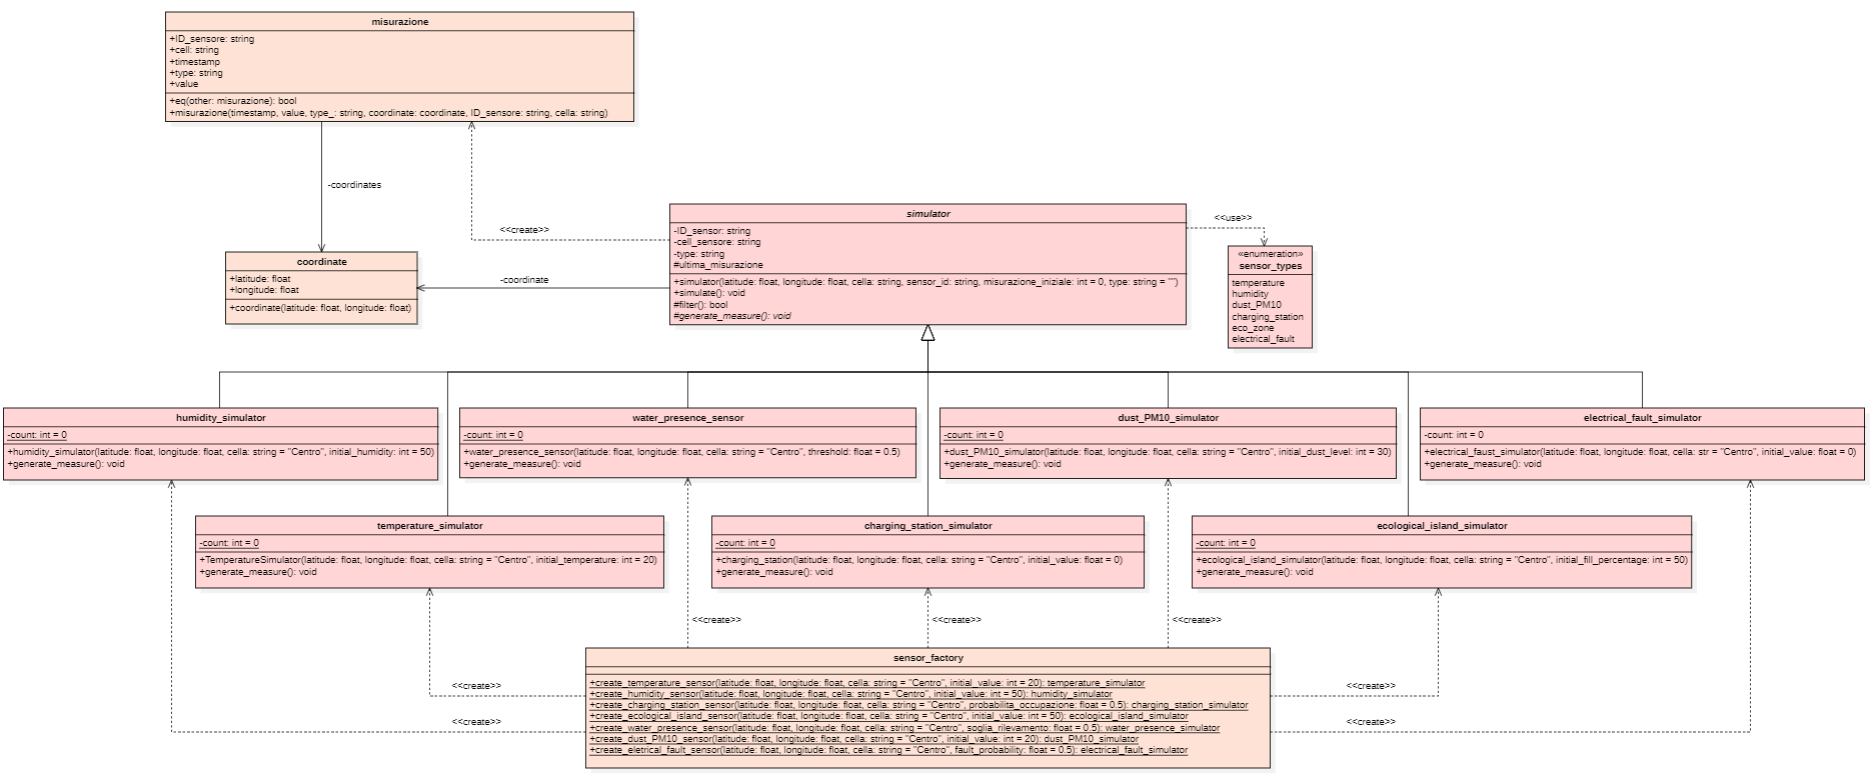
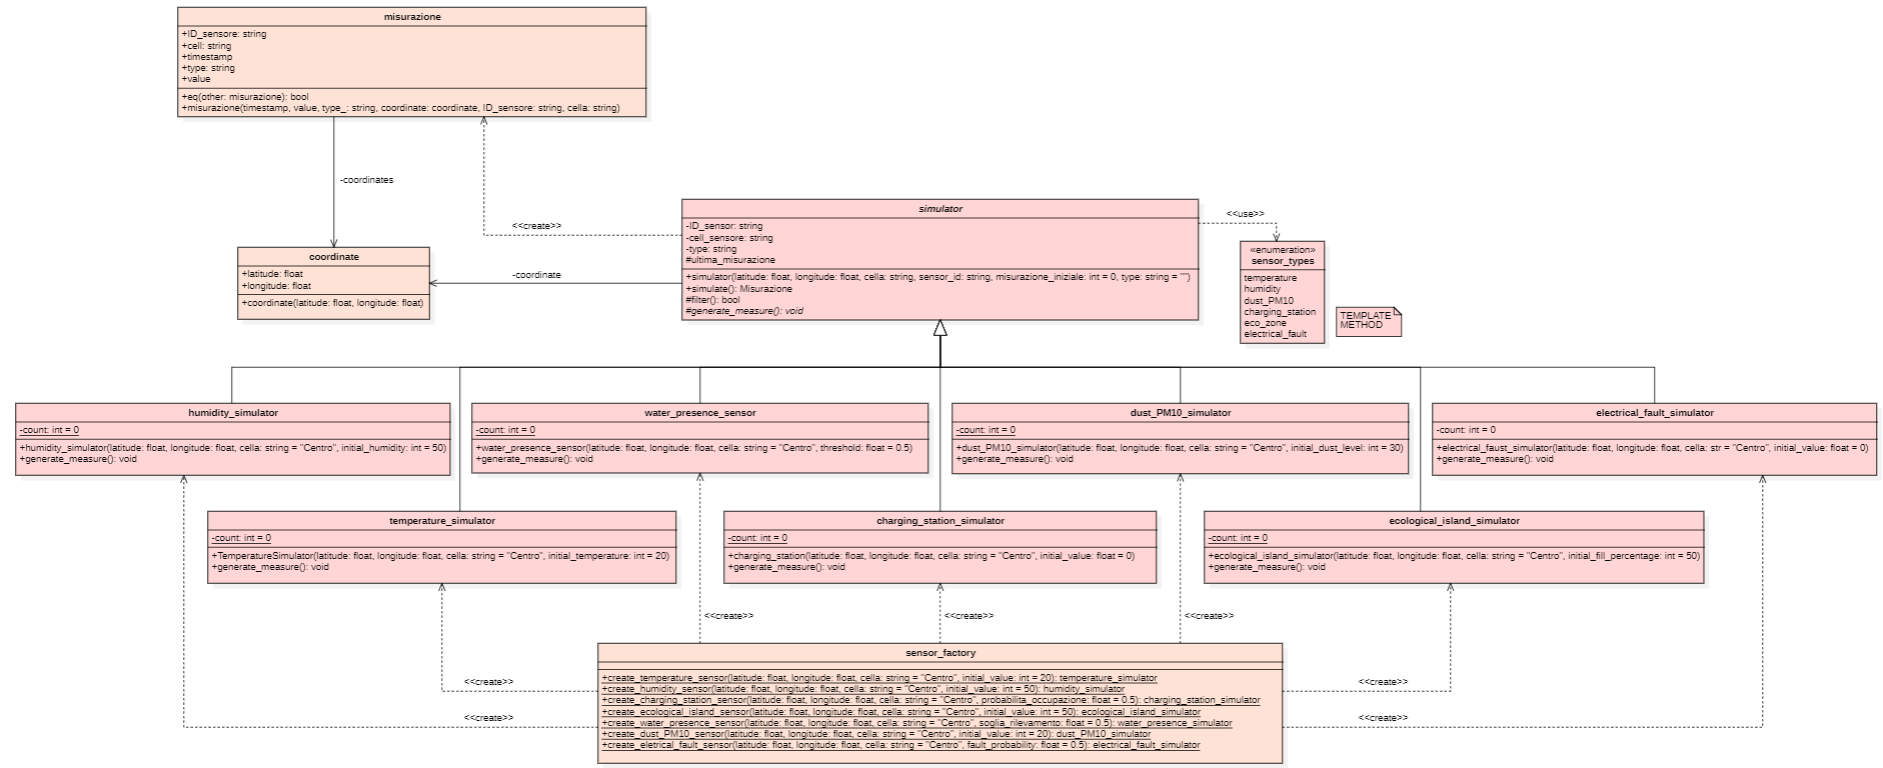
correction

diff --git a/Documenti_Interni/Sottosezioni/Specifica_tecnica/Grafana_config.tex b/Documenti_Interni/Sottosezioni/Specifica_tecnica/Grafana_config.tex
@@ -30,7 +30,7 @@ Per soddisfare tutti i requisiti definiti in \textit{Analisi dei requisiti v2.0.
 
 
 \paragraph*{Dashboard Principale - Progettazione in dettaglio}
-La dashboard principale presenta una suddivisione in "righe" comprimibili. Di seguito viene esposto per ogni riga cosa deve essere visualizzato nell'ordine dato dall'enumerazione, \textbf{ l'intervallo di tempo scelto dall'utente tramite interfaccia di default Grafana verrà chiamato \textit{UserInterval}}
+La dashboard principale è suddivisa in righe comprimibili. Di seguito, vengono elencate le informazioni da visualizzare per ciascuna riga, nell’ordine dall'enumerazione, \textbf{ l'intervallo di tempo scelto dall'utente tramite interfaccia di default Grafana verrà chiamato \textit{UserInterval}.}
 \begin{enumerate}
     \item Titolo riga: \textbf{City manager}
     \begin{enumerate}
@@ -96,22 +96,20 @@ La dashboard principale presenta una suddivisione in "righe" comprimibili. Di se
 
 
 \paragraph*{Dashboard dedicata - Progettazione in dettaglio}
-La dashboard dedicata è suddivisa in due sezioni: la prima posta nella parte superiore della dashboard è dedicata alle variabili di input per la selezione dei sensori e delle celle da analizzare, mentre la seconda posta nella parte inferiore della dashboard è dedicata alla visualizzazione delle misurazioni dei sensori selezionati.\\
+La dashboard dedicata è suddivisa in due sezioni: la prima posta nella parte superiore della dashboard è dedicata ai pannelli per le variabili di input, mentre la seconda posta nella parte inferiore della dashboard è dedicata alla visualizzazione delle misurazioni dei sensori secondo le impostazioni selezionate.\\
 Di seguito vengono esposti i dettagli relativi alla progettazione della selezione delle variabili di input:
 \begin{enumerate}
-    \item Nome pannello variabili: \textbf{Selezione cella}: Permette di selezionare le celle della città da analizzare;
-    \item Nome pannello variabili: \textbf{Tipologia misurazioni}: Permette di selezionare la tipologia di sensori da analizzare;
-    \item Nome pannello variabili: \textbf{Seleziona i sensori fronte}: Permette di selezionare i sensori da analizzare della tipologia e della cella selezionata;
-    \item Nome pannello variabili: \textbf{Aggregazione temporale}: Permette di selezionare l'intervallo temporale di aggregazione delle misurazioni;
-    \item Nome pannello variabili: \textbf{Misurazine minima}: Permette di selezionare il valore minimo delle misurazioni da visualizzare;
-    \item Nome pannello variabili: \textbf{Misurazione massima}: Permette di selezionare il valore massimo delle misurazioni da visualizzare.
+    \item Nome pannello: \textbf{Selezione cella}: Permette di selezionare le celle della città da analizzare;
+    \item Nome pannello: \textbf{Tipologia misurazioni}: Permette di selezionare la tipologia di sensori da analizzare;
+    \item Nome pannello variabili: \textbf{Seleziona i sensori}: Permette di selezionare i sensori da analizzare della tipologia e della cella selezionata;
+    \item Nome pannello: \textbf{Aggregazione temporale}: Permette di selezionare l'intervallo temporale di aggregazione delle misurazioni:{Automatico, Secondo, Minuto, Ora, Giorno, Mese, Nessuno}. Maggiori dettagli in \ref{sec:var_dedicate};
+    \item Nome pannello: \textbf{Misurazine minima}: Permette di selezionare il valore minimo delle misurazioni da visualizzare;
+    \item Nome pannello: \textbf{Misurazione massima}: Permette di selezionare il valore massimo delle misurazioni da visualizzare.
 \end{enumerate}
-Di seguito vengono esposti i dettagli relativi alla progettazione della visualizzazione delle misurazioni dei sensori selezionati:
+Di seguito vengono esposti i dettagli relativi alla progettazione della visualizzazione delle misurazioni secondo le variabili selezionate:
 \begin{enumerate}
-    \item Nome pannello: \textbf{Grafico a linee}: 
-    Visualizzazione delle misurazioni tramite un grafico a linee time-series. Le misurazioni sono mostrate in base ai parametri specificati dall'utente per la selezione delle celle, dei sensori, della tipologia delle misurazioni e dell'aggregazione temporale.
-    \item Nome pannello: \textbf{Tabella misurazioni}: 
-    Visualizzazione delle misurazioni in forma tabellare. Come nel pannello precedente, le misurazioni sono mostrate in base ai parametri specificati dall'utente per la selezione delle celle, dei sensori, della tipologia delle misurazioni e dell'aggregazione temporale.
+    \item Nome pannello: \textbf{Grafico a linee}: Visualizzazione delle misurazioni avviene attraverso un grafico a linee time-series. Le misurazioni sono mostrate in base ai parametri specificati dall’utente. In particolare, le misurazioni esposte si basano sulla selezione delle celle, dei sensori, della tipologia delle misurazioni, dell’aggregazione temporale e della misurazione massima e minima definita dall’utente;
+    \item Nome pannello: \textbf{Tabella misurazioni}: Visualizzazione delle misurazioni in forma tabellare. Come nel pannello precedente, le misurazioni sono mostrate in base ai parametri specificati dall'utente.
 \end{enumerate}
 
 \subsubsection{ClickHouse data source plugin} \label{sec:click_plugin}
@@ -156,7 +154,7 @@ Un esempio di query per la visualizzazione delle misurazioni time-series di temp
 \end{lstlisting}
 
 La query esposta mostra anche l'utilizzo delle macro esposte in: \ref{sec:macros}
-\paragraph*{Utilizzo delle variabili nella dashboard dedicata:}
+\paragraph*{Utilizzo delle variabili nella dashboard dedicata:} \label{sec:var_dedicate}
 Nella dashboard dedicata alla visualizzazione spefica delle misurazioni di una sola tipologia di sensori, le variabili sono:
 \begin{itemize}
     \item \textbf{variabile (\$cella)}: per mostrare solo le misurazioni provenienti da determinate celle della città, 

diff --git a/Documenti_Interni/Sottosezioni/Specifica_tecnica/Architettura_simulatori.tex b/Documenti_Interni/Sottosezioni/Specifica_tecnica/Architettura_simulatori.tex
@@ -597,3 +597,12 @@ Un'altra implementazione del pattern \textit{Object Adapter} viene impiegata per
 \end{itemize}
 
 
+\subsubsection{Progettazione - Panoramica UML }
+\begin{figure}[H]
+    \centering
+    \includegraphics[width=1.1\textwidth]{../Images/SpecificaTecnica/progettazioneCompSimulatori.PNG}
+    \caption{Panoramica progettazione simulatori sensori UML - Innovacity}
+    \label{fig: panor_sim}
+\end{figure}
+L'immagina vuole mostrare sinteticamente la struttura dei moduli \textit{Simulatori}, \textit{Writers} e \textit{Threading/Scheduling} e le relazioni tra le classi principali di questi moduli. In particolare, si evidenzia la presenza del pattern \textit{Composite} per la gestione di più servizi di scrittura e di più thread di esecuzione, il pattern \textit{Strategy} per la scrittura su diversi servizi e il pattern \textit{Object Adapter} per adattare le ThreadPool di Python e gli oggetti Misurazione ai Writer. 
+Viene riportato solo il sensore di temperatura come implementazione concreta di \textit{simulator} in quanto le altre implementazioni sono analoghe nel loro dominio.
